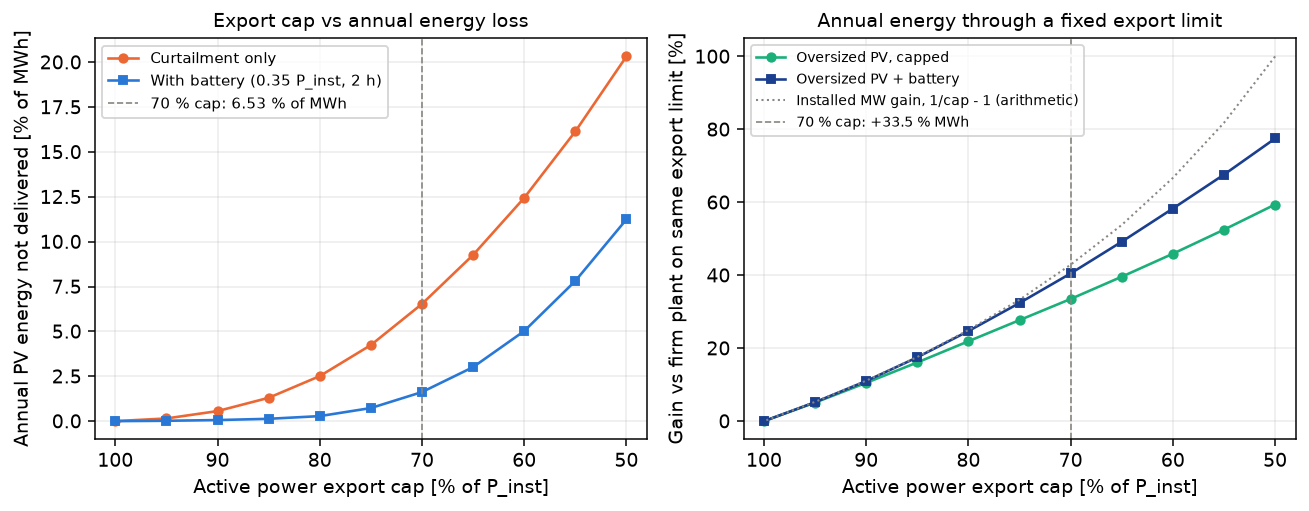
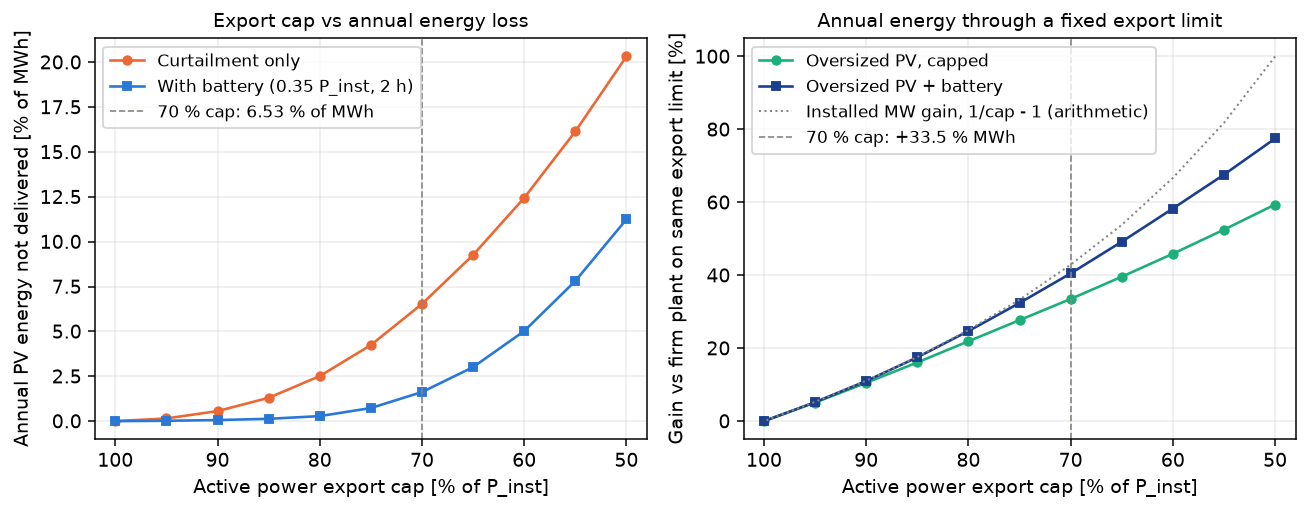
Charts: legends off the titles and limit lines, larger text
Dashboard: titles at the top, legends in their own band between title and plot (taller on a phone),
location names broken on a phone. README charts: legend text 9 pt, bar labels 8 pt; the voltage-profile
legend sits above the 1.05 pu line, the N-1 legend below the 25 MVA limit. Results unchanged.

Changed region(s): [[0.55, 0.0881, 0.8862, 0.3229], [0.0611, 0.0881, 0.3361, 0.2642]]

diff --git a/docs/index.html b/docs/index.html
@@ -131,13 +131,21 @@ const CAPS = D.spatial_capacities_mw;
 const REG = {uncontrolled: "cos phi = 1.0", cos_phi_p: "cos phi(P)", qu_droop: "Q(U) droop"};
 
 function layoutBase(extra) {
-  return Object.assign({
+  const out = Object.assign({
     paper_bgcolor: css("--surface"), plot_bgcolor: css("--surface"),
     font: {family: "system-ui, -apple-system, Segoe UI, sans-serif", color: css("--ink2"), size: 12},
     margin: {l: 56, r: 18, t: 32, b: 48},
     hoverlabel: {bgcolor: css("--surface"), font: {color: css("--ink")}},
     legend: {orientation: "h", y: 1.14, x: 0, font: {size: 11}}
   }, extra);
+  if (out.title) {
+    // title at the top of the figure, the legend in its own band between title and plot (wraps on a phone)
+    const narrow = window.innerWidth < 640;
+    out.title = Object.assign({y: 1, yref: "container", yanchor: "top", pad: {t: 6}}, out.title);
+    out.legend = Object.assign({}, out.legend, {y: 1.01, yanchor: "bottom"});
+    out.margin = Object.assign({}, out.margin, {t: narrow ? 104 : 64});
+  }
+  return out;
 }
 const axis = extra => Object.assign({gridcolor: css("--grid"), linecolor: css("--axis"), zeroline: false}, extra);
 
@@ -236,7 +244,8 @@ function updateInteractiveSim() {
 function renderStaticChartsAndTables() {
   const H = D.headline;
   const locs = ["F1", "F2", "F3", "GPZ_N1"];
-  const locNames = ["F1 overhead (14.2 km)", "F2 mixed (9.6 km)", "F3 cable (6.4 km)", "GPZ busbar (N-1)"];
+  const sep = window.innerWidth < 640 ? "<br>" : " ";
+  const locNames = [`F1 overhead${sep}(14.2 km)`, `F2 mixed${sep}(9.6 km)`, `F3 cable${sep}(6.4 km)`, `GPZ busbar${sep}(N-1)`];
   const regOrder = [
     ["uncontrolled", "1. cos phi = 1.0", "#898781"],
     ["cos_phi_p", "2. cos phi(P)", "#e8a33d"],

diff --git a/src/grid_ncrfg/pipeline.py b/src/grid_ncrfg/pipeline.py
@@ -151,14 +151,14 @@ def generate_plots(
             for loc in locs
         ]
         bars = ax1.bar(x + (i - 1) * w, vals, width=w, label=rlabel, color=col)
-        ax1.bar_label(bars, fmt="%.1f", fontsize=6.8, padding=1.5)
-    ax1.set_xticks(x, loc_labels, fontsize=8.5)
+        ax1.bar_label(bars, fmt="%.1f", fontsize=8, padding=1.5)
+    ax1.set_xticks(x, loc_labels, fontsize=9)
     ax1.set_ylabel("Connectable capacity [MW]")
     ax1.set_title("Hosting capacity by location and reactive control", fontsize=10)
     ax1.set_ylim(0, 1.15 * float(df_hc["hosting_capacity_mw"].max()))
     ax1.grid(axis="y", alpha=0.25)
     ax1.set_axisbelow(True)
-    ax1.legend(loc="upper left", fontsize=7.8, frameon=True)
+    ax1.legend(loc="upper left", fontsize=9, frameon=True)
 
     f1_sp = spatial_profiles["F1"]
     d_km = f1_sp["distances_km"]
@@ -173,7 +173,9 @@ def generate_plots(
     ax2.set_ylabel("Node voltage U / Un [pu]")
     ax2.set_title(f"Feeder F1 at {float(spatial_ref_mw):.1f} MW: voltage along the line", fontsize=10)
     ax2.grid(alpha=0.25)
-    ax2.legend(loc="upper left", fontsize=7.6, frameon=True)
+    # headroom above the 1.05 pu line for the legend; the profiles rise to the right, under it
+    ax2.set_ylim(top=max(1.10, ax2.get_ylim()[1] + 0.03))
+    ax2.legend(loc="upper left", fontsize=9, frameon=True)
     _save(fig, img_dir / "hosting_capacity.png")
 
     # 2. Sunniest May-June week time-series on Feeder F1
@@ -196,7 +198,7 @@ def generate_plots(
         fontsize=10,
     )
     ax_v.grid(alpha=0.25)
-    ax_v.legend(loc="upper right", ncol=3, fontsize=7.8, frameon=True)
+    ax_v.legend(loc="upper right", ncol=3, fontsize=9, frameon=True)
 
     ax_q.step(t_idx, m_cos["q_pcc_mvar"], where="post", lw=0.9, color=WARM, label="Q plant: cos phi(P) [Mvar]")
     ax_q.step(t_idx, m_qu["q_pcc_mvar"], where="post", lw=1.0, color=BLUE, label="Q plant: Q(U) [Mvar]")
@@ -208,7 +210,7 @@ def generate_plots(
     ax_q.set_ylim(q_min - 0.45 * (q_max - q_min), q_max + 0.1 * (q_max - q_min))
     ax_q.set_ylabel("Q [Mvar] / Loss [MW]")
     ax_q.grid(alpha=0.25)
-    ax_q.legend(loc="lower right", ncol=3, fontsize=7.8, frameon=True)
+    ax_q.legend(loc="lower right", ncol=3, fontsize=9, frameon=True)
     _save(fig, img_dir / "voltage_qu_profile.png")
 
     # 3. Export cap trade-off (50 %..100 % of P_inst)
@@ -227,7 +229,7 @@ def generate_plots(
     ax_c1.set_title("Export cap vs annual energy loss", fontsize=10)
     ax_c1.set_xlim(102, 48)
     ax_c1.grid(alpha=0.25)
-    ax_c1.legend(loc="upper left", fontsize=8, frameon=True)
+    ax_c1.legend(loc="upper left", fontsize=9, frameon=True)
 
     ax_c2.plot(caps_pct, df_curt["energy_gain_vs_firm_pct"], marker="o", ms=4.5, lw=1.4, color=GREEN,
                label="Oversized PV, capped")
@@ -242,7 +244,7 @@ def generate_plots(
     ax_c2.set_title("Annual energy through a fixed export limit", fontsize=10)
     ax_c2.set_xlim(102, 48)
     ax_c2.grid(alpha=0.25)
-    ax_c2.legend(loc="upper left", fontsize=7.6, frameon=True)
+    ax_c2.legend(loc="upper left", fontsize=9, frameon=True)
     _save(fig, img_dir / "curtailment_tradeoff.png")
 
     # 4. GPZ 110/15 kV transformer loading duration curve & seasonal heatmap under N-1
@@ -263,15 +265,16 @@ def generate_plots(
     ax_n1.set_xlim(0, hrs[-1] + 1)
     ax_n1.set_ylim(0, 1.25 * s_lim)
     ax_n1.grid(alpha=0.25)
-    ax_n1.legend(loc="upper right", fontsize=7.4, frameon=True)
+    # just below the N-1 limit line, right of the knee where all curves are low
+    ax_n1.legend(loc="upper right", bbox_to_anchor=(1.0, 0.77), fontsize=9, frameon=True)
 
     hm_arr = np.asarray(n1_study["heatmap_p95_mva"], dtype=float)
     im = ax_hm.imshow(hm_arr, aspect="auto", cmap="YlGnBu", vmin=0.0, vmax=s_lim, origin="upper")
     cbar = fig.colorbar(im, ax=ax_hm, fraction=0.046, pad=0.04)
-    cbar.set_label("P95 S [MVA]", fontsize=8.5)
-    cbar.ax.tick_params(labelsize=8)
-    ax_hm.set_yticks(np.arange(12), ["Jan", "Feb", "Mar", "Apr", "May", "Jun", "Jul", "Aug", "Sep", "Oct", "Nov", "Dec"], fontsize=8)
-    ax_hm.set_xticks([0, 4, 8, 12, 16, 20, 23], ["00", "04", "08", "12", "16", "20", "23"], fontsize=8)
+    cbar.set_label("P95 S [MVA]", fontsize=9)
+    cbar.ax.tick_params(labelsize=9)
+    ax_hm.set_yticks(np.arange(12), ["Jan", "Feb", "Mar", "Apr", "May", "Jun", "Jul", "Aug", "Sep", "Oct", "Nov", "Dec"], fontsize=9)
+    ax_hm.set_xticks([0, 4, 8, 12, 16, 20, 23], ["00", "04", "08", "12", "16", "20", "23"], fontsize=9)
     ax_hm.set_xlabel("Hour of day (Europe/Warsaw)")
     ax_hm.set_title("Scenario C: monthly P95 transformer loading [MVA]", fontsize=10)
     _save(fig, img_dir / "n1_transformer_loading.png")
@@ -410,13 +413,21 @@ const CAPS = D.spatial_capacities_mw;
 const REG = {uncontrolled: "cos phi = 1.0", cos_phi_p: "cos phi(P)", qu_droop: "Q(U) droop"};
 
 function layoutBase(extra) {
-  return Object.assign({
+  const out = Object.assign({
     paper_bgcolor: css("--surface"), plot_bgcolor: css("--surface"),
     font: {family: "system-ui, -apple-system, Segoe UI, sans-serif", color: css("--ink2"), size: 12},
     margin: {l: 56, r: 18, t: 32, b: 48},
     hoverlabel: {bgcolor: css("--surface"), font: {color: css("--ink")}},
     legend: {orientation: "h", y: 1.14, x: 0, font: {size: 11}}
   }, extra);
+  if (out.title) {
+    // title at the top of the figure, the legend in its own band between title and plot (wraps on a phone)
+    const narrow = window.innerWidth < 640;
+    out.title = Object.assign({y: 1, yref: "container", yanchor: "top", pad: {t: 6}}, out.title);
+    out.legend = Object.assign({}, out.legend, {y: 1.01, yanchor: "bottom"});
+    out.margin = Object.assign({}, out.margin, {t: narrow ? 104 : 64});
+  }
+  return out;
 }
 const axis = extra => Object.assign({gridcolor: css("--grid"), linecolor: css("--axis"), zeroline: false}, extra);
 
@@ -515,7 +526,8 @@ function updateInteractiveSim() {
 function renderStaticChartsAndTables() {
   const H = D.headline;
   const locs = ["F1", "F2", "F3", "GPZ_N1"];
-  const locNames = ["F1 overhead (14.2 km)", "F2 mixed (9.6 km)", "F3 cable (6.4 km)", "GPZ busbar (N-1)"];
+  const sep = window.innerWidth < 640 ? "<br>" : " ";
+  const locNames = [`F1 overhead${sep}(14.2 km)`, `F2 mixed${sep}(9.6 km)`, `F3 cable${sep}(6.4 km)`, `GPZ busbar${sep}(N-1)`];
   const regOrder = [
     ["uncontrolled", "1. cos phi = 1.0", "#898781"],
     ["cos_phi_p", "2. cos phi(P)", "#e8a33d"],
